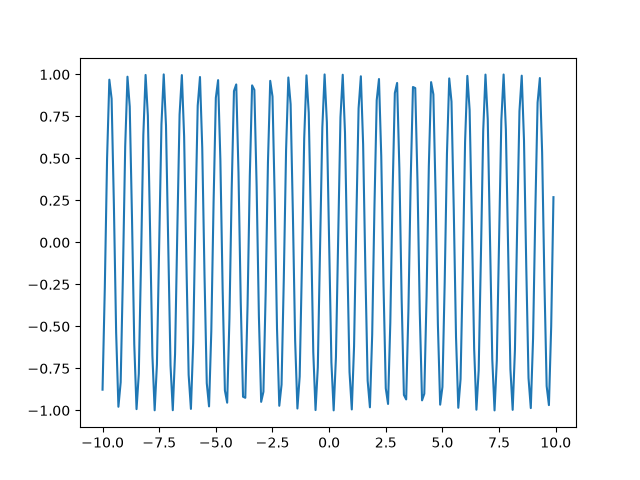
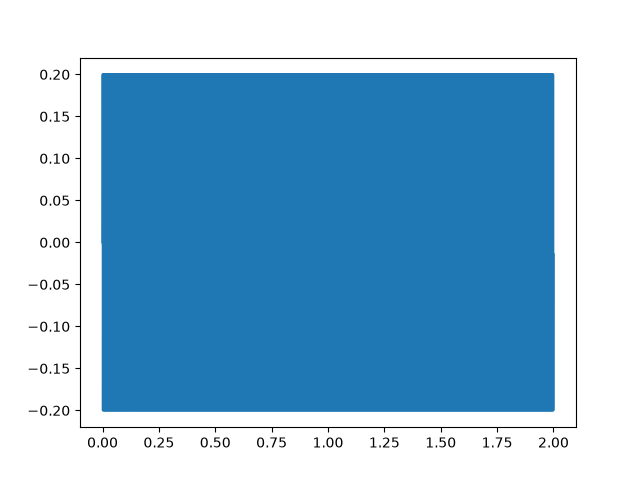
finish session 1 of project

diff --git a/project/sing_my_function.py b/project/sing_my_function.py
@@ -5,13 +5,20 @@ import sys
 sd.default.samplerate = 44100
 sd.default.channels = 2
 
-x = np.arange(-10, 10, 0.1)
-data = np.sin(44100 * x)
-print(data)
+t = 2
+duration = t
+f = 500
+volume = 0.2
+x = np.arange(0, duration, 1 / 44100)
+data = volume * np.sin((2*np.pi) * f * x)
+
 
 fig, ax = plt.subplots()
 ax.plot(x, data)
+# ax.set_xlim(0, 0.01)
 fig.savefig("test.png")
+print(len(data))
+print(len(data) / 44100)
 
 sd.play(data)
 sd.wait()
